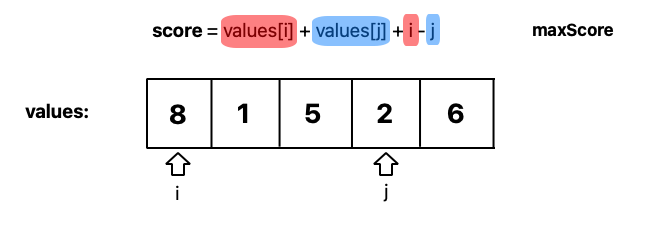
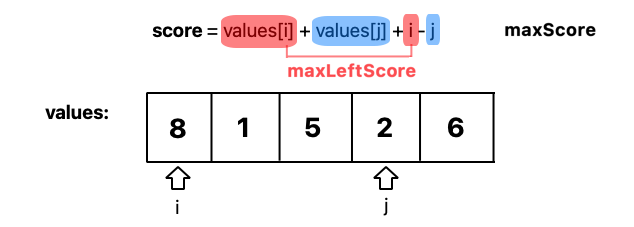
:memo: edit: leetcode-1014.md - polishment

diff --git a/_posts/2022-02-17-leetcode-1014.md b/_posts/2022-02-17-leetcode-1014.md
@@ -21,16 +21,17 @@ last_modified_at: 2022-02-17T17:50:00+09:00
 
 ## Key Idea
 
+Note that the `score` value consists of two parts.  
+We are going to find the index of **best left pair** as we iterate through the values, and cache them in `maxLeftScore`.
+
 <img src="/public/images/leetcode-1014-figure-1.png"/>
 
-- `i`: index of **left pair**, holds `values[i] + i`(maxPrevScore) value largest.
-- `j`: index of **right pair**.
-
-One pass from left to right.  
+- `i`: index of **left pair** candidate.
+- `j`: index of **right pair** candidate.
 
 **At each time we move** `j`,   
-1) update index `i`  
-2) update `maxScore` value  
+1) Can index `j-1` can be the new `i`? Then update `maxLeftScore`.  
+2) Update `maxScore` value with `max(maxScore, score(i,j))`.
 
 Time: $$O(N)$$  
 Space: $$O(1)$$
@@ -47,10 +48,10 @@ typedef vector<int> vi;
 class Solution {
 public:
     static inline int maxScoreSightseeingPair(vi &values) {
-        int n= values.size(), mxPrevScore= 0, maxScore= 0;
-        for (int i=1; i < n; ++i) {
-            mxPrevScore= max(mxPrevScore, values[i-1]+i-1);
-            maxScore= max(maxScore, values[i]-i+mxPrevScore);
+        int n= values.size(), maxLeftScore= 0, maxScore= 0;
+        for (int j=1; j < n; ++j) {
+            maxLeftScore= max(maxLeftScore, values[j-1]+j-1);
+            maxScore= max(maxScore, values[j]-j+maxLeftScore);
         }
         return maxScore;
     }
